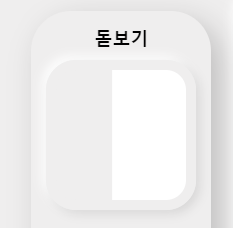
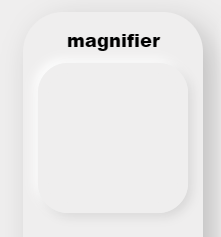
설명 내용 채움

Changed region(s): [[0.2986, 0.1228, 0.733, 0.2149], [0.8959, 0.1842, 0.9231, 1.0]]

diff --git a/source/colorDispenser_css/help.css b/source/colorDispenser_css/help.css
@@ -81,16 +81,19 @@
 }
 
 .help_image_cover {
-    width: 50%;
+    max-width: 70%;
     padding: 50px;
     border: 1px solid var(--background-color);
     border-radius: 30px;
-    box-shadow: 4px 4px 10px 0 var(--black-shadow-color),
-    -4px -4px 10px var(--white-shadow-color);
+    box-shadow: 4px 4px 10px 0 var(--black-shadow-color), 
+        -4px -4px 10px var(--white-shadow-color);
 }
 
 .help_image {
-    width: 100%;
+    width: auto;
+    height: auto;
+    max-width: 100%;
+    max-height: 500px;
 }
 
 .help_content_cover {

diff --git a/source/index.html b/source/index.html
@@ -83,7 +83,7 @@
                 <span class="material-symbols-outlined help_forward">arrow_forward_ios</span>
             </div>
 
-            <div class="help_content_cover"><span class="help_content">설명내용설명내용설명내용설명내용설명내용설명내용설명내용설명내용</span></div>
+            <div class="help_content_cover"><span class="help_content"></span></div>
 
         </content>
 
